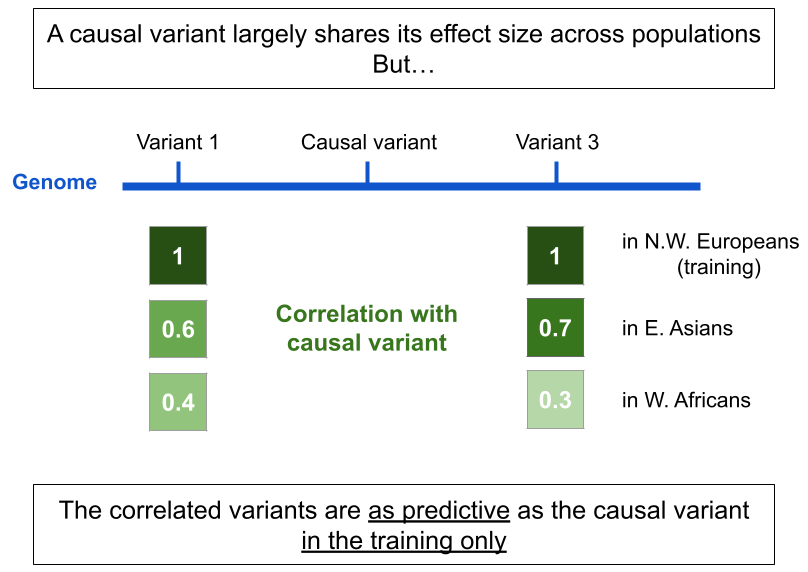
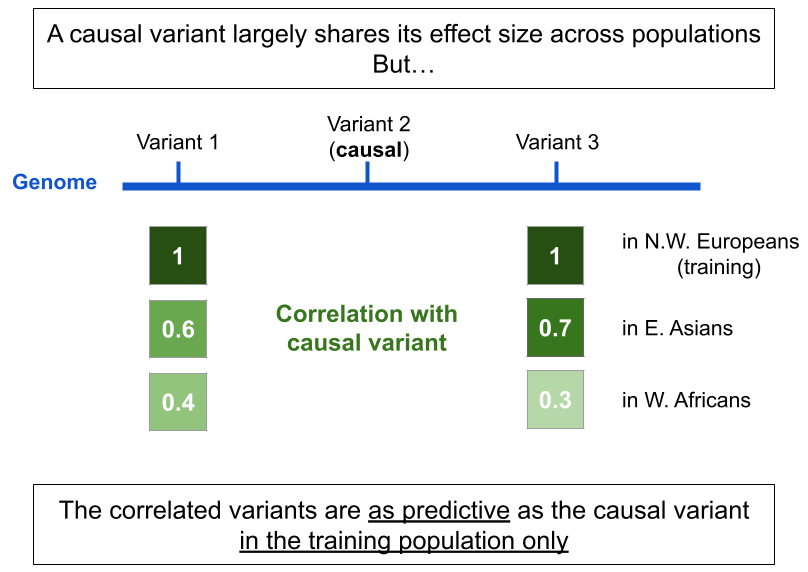
more changes

Changed region(s): [[0.2785, 0.9213, 0.7116, 0.9808], [0.3713, 0.208, 0.5569, 0.2972]]

diff --git a/inserm-css6.html b/inserm-css6.html
@@ -47,19 +47,6 @@ background-size: 25%
 
 ### About me
 
-&lt;br&gt;
-
-#### Research Interests
-
-- Statistical human genetics, especially polygenic risk scores (PRS)
-
-- Development of statistical methods and R/C++ packages    
-for efficient and powerful analyses of large-scale genetic data 
-
---
-
-&lt;br&gt;
-
 #### Professional background
 
 - 2013–2016: Engineer in Computer Science &amp; Applied Mathematics
@@ -70,11 +57,24 @@ for efficient and powerful analyses of large-scale genetic data
 
 - 2022–2025: Senior Researcher (promotion at the same place)
 
+&lt;br&gt;
+
+#### Research focus
+
+- Statistical human genetics
+
+- Development of statistical methods and R/C++ packages    
+for efficient and powerful analyses of large-scale genetic data 
+
+- Particularly for deriving **polygenic risk scores (PRS)**
+
 ---
 
 class: center middle inverse
 
-# Introduction &amp; Motivation
+# Genetic data
+# Genome-Wide Association Studies (GWAS)
+# Polygenic Risk Scores (PRS)
 
 ---
 
@@ -102,7 +102,7 @@ Thanks to GWAS, we know that
 
 &lt;br&gt;
 
-From GWAS data to polygenic risk scores (PRS):
+From GWAS data to **polygenic risk scores (PRS)**:
 
 - variants can be aggregated in a joint predictive model: `\(PRS = \sum_j \hat\gamma_j~G_j\)`
 
@@ -157,9 +157,9 @@ class: center, middle, inverse
 
 # The solution:
 
-## identifying causal variants
+## identifying causal variants and using them
 
-## and using them in PRS
+## in polygenic risk scores (PRS)
 
 ---
 
@@ -182,7 +182,7 @@ to **distinguish causal variants between highly correlated genetic variants**
 
 &lt;br&gt;
 
-But **methods and data structures scale quadratically with #variants**    
+Issue: **methods and data structures scale quadratically with #variants**    
 (would need 100x runtime and memory to use 10M)
 
 &lt;br&gt;
@@ -193,15 +193,15 @@ But **methods and data structures scale quadratically with #variants**
 
 ### Prioritizing causal variants thanks to functional annotations (WP2)
 
-&lt;u&gt;Examples of functional annotations&lt;/u&gt;: protein-coding variants, regulatory variants, conserved variants (in regions with little evolutionary change)
-
-**Variants in some functional categories are more likely to be causal**
+&lt;br&gt;
 
 &lt;img src="figures/LD-func-anno.png" width="95%" style="display: block; margin: auto;" /&gt;
 
 &lt;br&gt;
 
-.center[&lt;svg viewBox="0 0 640 512" style="height:1em;position:relative;display:inline-block;top:.1em;" xmlns="http://www.w3.org/2000/svg"&gt;  &lt;path d="M624 416H381.54c-.74 19.81-14.71 32-32.74 32H288c-18.69 0-33.02-17.47-32.77-32H16c-8.8 0-16 7.2-16 16v16c0 35.2 28.8 64 64 64h512c35.2 0 64-28.8 64-64v-16c0-8.8-7.2-16-16-16zM576 48c0-26.4-21.6-48-48-48H112C85.6 0 64 21.6 64 48v336h512V48zm-64 272H128V64h384v256z"&gt;&lt;/path&gt;&lt;/svg&gt; I will integrate this information into my Bayesian PRS methodology &lt;svg viewBox="0 0 640 512" style="height:1em;position:relative;display:inline-block;top:.1em;" xmlns="http://www.w3.org/2000/svg"&gt;  &lt;path d="M624 416H381.54c-.74 19.81-14.71 32-32.74 32H288c-18.69 0-33.02-17.47-32.77-32H16c-8.8 0-16 7.2-16 16v16c0 35.2 28.8 64 64 64h512c35.2 0 64-28.8 64-64v-16c0-8.8-7.2-16-16-16zM576 48c0-26.4-21.6-48-48-48H112C85.6 0 64 21.6 64 48v336h512V48zm-64 272H128V64h384v256z"&gt;&lt;/path&gt;&lt;/svg&gt;]
+.center[**Variants in some functional categories are more likely to be causal**
+
+&lt;svg viewBox="0 0 640 512" style="height:1em;position:relative;display:inline-block;top:.1em;" xmlns="http://www.w3.org/2000/svg"&gt;  &lt;path d="M624 416H381.54c-.74 19.81-14.71 32-32.74 32H288c-18.69 0-33.02-17.47-32.77-32H16c-8.8 0-16 7.2-16 16v16c0 35.2 28.8 64 64 64h512c35.2 0 64-28.8 64-64v-16c0-8.8-7.2-16-16-16zM576 48c0-26.4-21.6-48-48-48H112C85.6 0 64 21.6 64 48v336h512V48zm-64 272H128V64h384v256z"&gt;&lt;/path&gt;&lt;/svg&gt; I will integrate this information into my Bayesian PRS methodology &lt;svg viewBox="0 0 640 512" style="height:1em;position:relative;display:inline-block;top:.1em;" xmlns="http://www.w3.org/2000/svg"&gt;  &lt;path d="M624 416H381.54c-.74 19.81-14.71 32-32.74 32H288c-18.69 0-33.02-17.47-32.77-32H16c-8.8 0-16 7.2-16 16v16c0 35.2 28.8 64 64 64h512c35.2 0 64-28.8 64-64v-16c0-8.8-7.2-16-16-16zM576 48c0-26.4-21.6-48-48-48H112C85.6 0 64 21.6 64 48v336h512V48zm-64 272H128V64h384v256z"&gt;&lt;/path&gt;&lt;/svg&gt;]
 
 ---
 
@@ -209,7 +209,7 @@ But **methods and data structures scale quadratically with #variants**
 
 &lt;br&gt;
 
-&lt;img src="figures/LD-multi-GWAS.png" width="100%" style="display: block; margin: auto;" /&gt;
+&lt;img src="figures/LD-multi-GWAS.png" width="98%" style="display: block; margin: auto;" /&gt;
 
 &lt;br&gt;
 
@@ -235,11 +235,11 @@ including **2000 for my 11 first-author papers**
 
 --
 
-- My **funding strategy** for building a team:
+- My **funding strategy** for building a group:
 
-  - ATIP-Avenir (applied)
+  - ANR JCJC
   
-  - ANR JCJC (planned)
+  - ATIP-Avenir
 
 --
 
@@ -252,7 +252,7 @@ including **2000 for my 11 first-author papers**
 --
 
 - I have found **several collaborators** for these work packages    
-(Broad, UCLA, Helsinki, Pasteur, INRIA, etc)
+(Broad, UCLA, Oxford, Helsinki, Pasteur, INRIA, etc)
     
 ---
 
